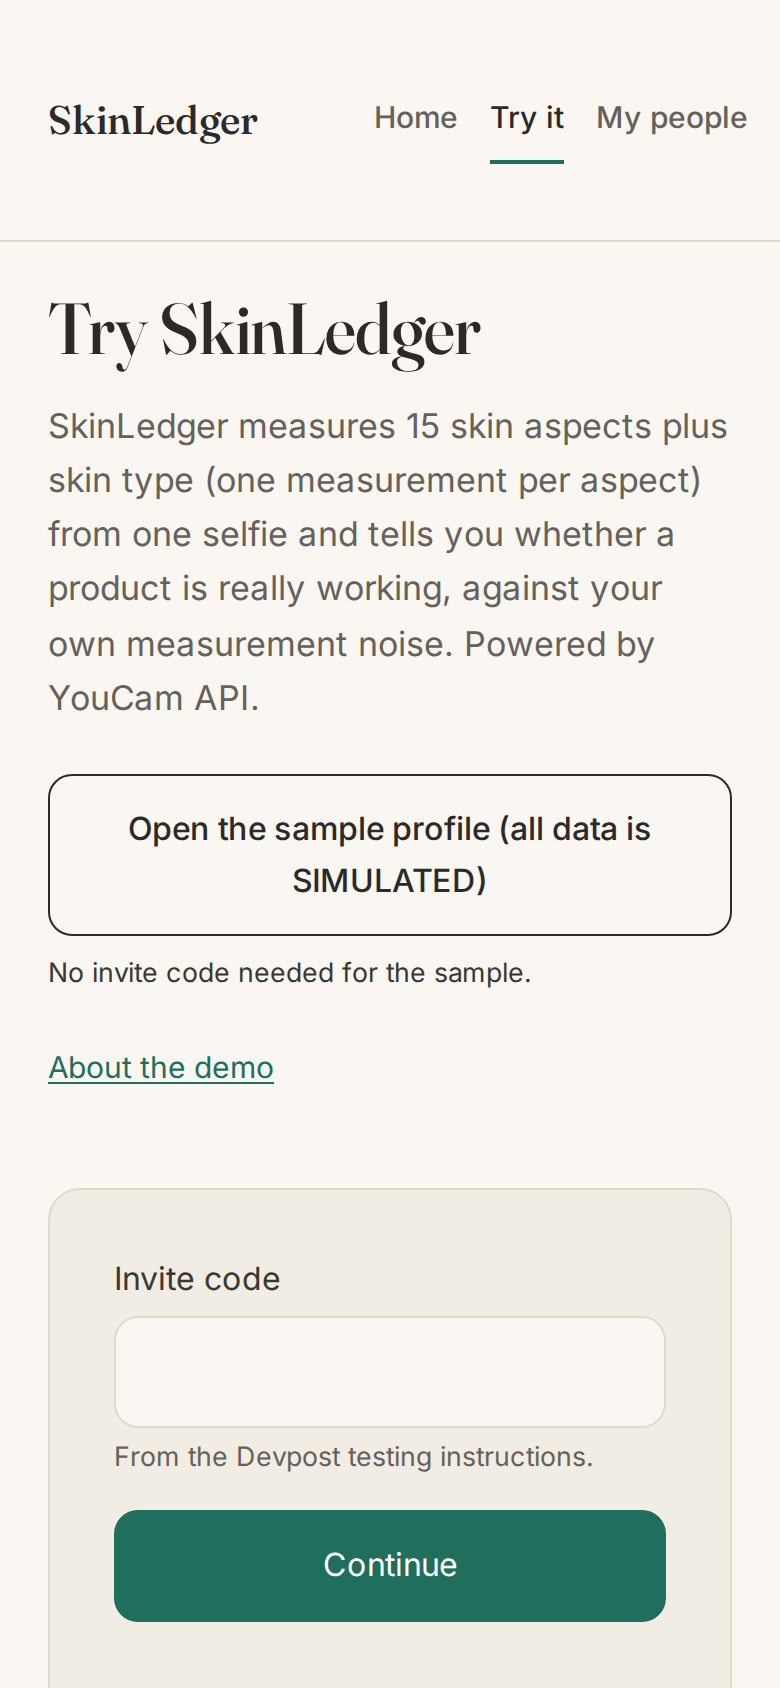
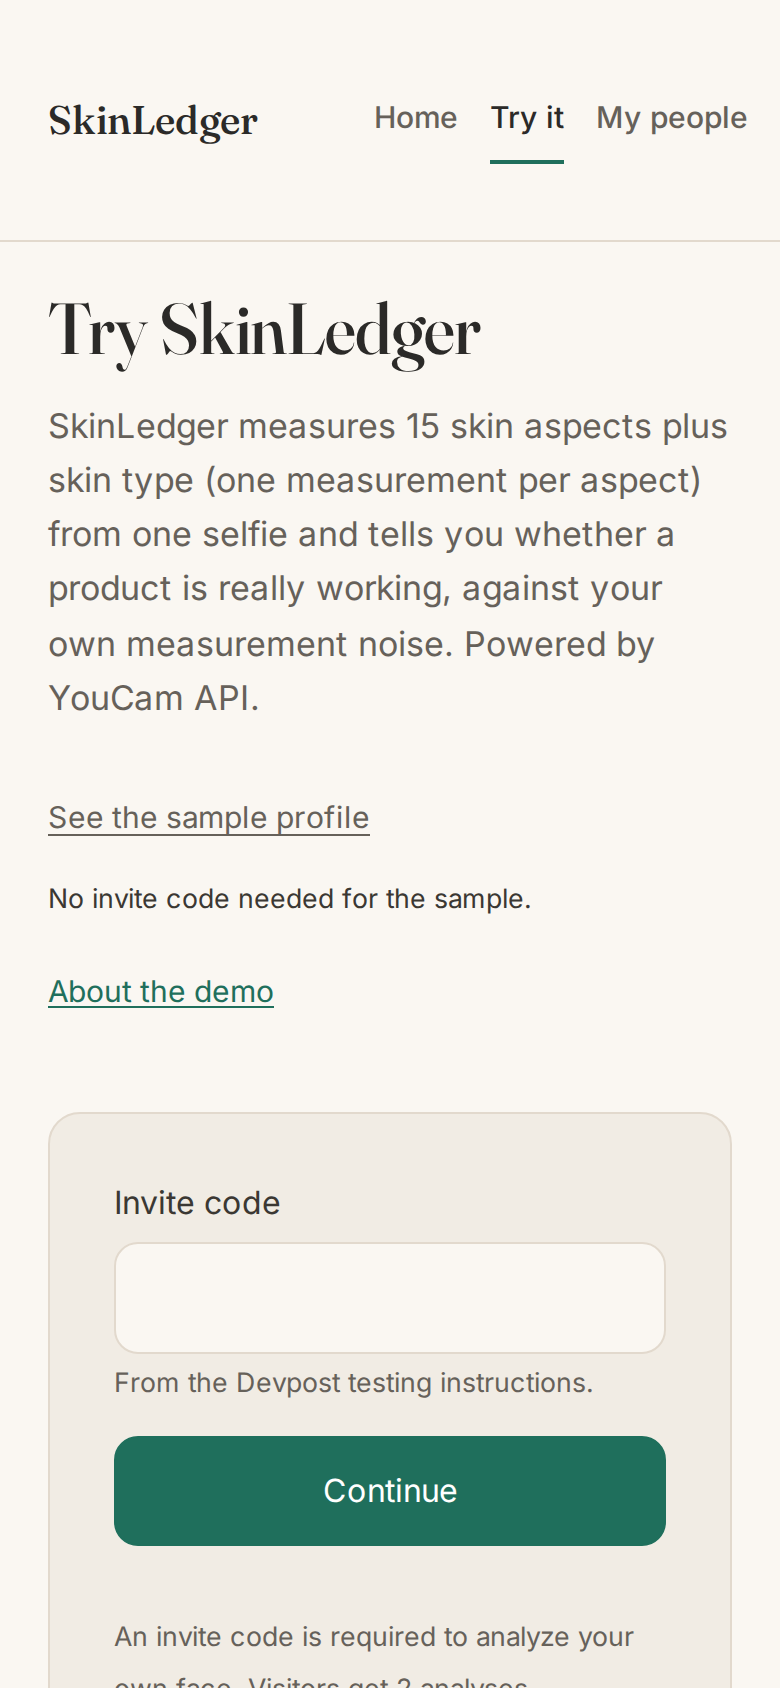
P16c-4: quiet sample CTA, disabled states, fold fixes, light band

diff --git a/src/skinledger/web/static/app.css b/src/skinledger/web/static/app.css
@@ -78,8 +78,9 @@
   --sl-focus: #1f6f5c;
 
   --sl-chart-grid: #e2d9cd;
-  --sl-chart-band: rgba(216, 198, 166, 0.45);
-  --sl-chart-band-unstable: rgba(102, 97, 90, 0.14);
+  --sl-chart-band: #f4ede1;
+  --sl-chart-band-unstable: #efeae1;
+  --sl-chart-band-edge: #d8c6a6;
   --sl-chart-product: #66615a;
   --sl-chart-real: #1f6f5c;
   --sl-chart-simulated: #1f6f5c;
@@ -179,8 +180,9 @@
     --sl-focus: #8fc7b4;
 
     --sl-chart-grid: #3a352f;
-    --sl-chart-band: rgba(216, 198, 166, 0.22);
-    --sl-chart-band-unstable: rgba(179, 170, 158, 0.16);
+    --sl-chart-band: rgba(244, 237, 225, 0.08);
+    --sl-chart-band-unstable: rgba(207, 199, 187, 0.08);
+    --sl-chart-band-edge: rgba(216, 198, 166, 0.35);
     --sl-chart-product: #b3aa9e;
     --sl-chart-real: #8fc7b4;
     --sl-chart-simulated: #8fc7b4;
@@ -2279,4 +2281,123 @@ input[type="radio"] {
 
 label.capture-attestation {
   width: 100%;
+}
+
+/* -- P16c-4: final P1 pass -------------------------------------------------- */
+
+.sample-link {
+  display: inline-flex;
+  align-items: center;
+  min-height: 44px;
+  color: var(--sl-muted);
+  font-size: 0.9375rem;
+  text-decoration: underline;
+  text-underline-offset: 3px;
+}
+
+.sample-link:hover {
+  color: var(--sl-ink);
+}
+
+button:disabled,
+button[disabled] {
+  background: var(--sl-stone);
+  border-color: var(--sl-rule);
+  color: var(--sl-muted);
+  opacity: 1;
+}
+
+button:disabled:hover {
+  background: var(--sl-stone);
+}
+
+.capture-attestation {
+  padding: 10px 14px;
+  min-height: 52px;
+}
+
+#attestation-hint {
+  margin: 2px 0 8px;
+}
+
+.capture-privacy {
+  margin-block: 8px;
+  padding: 8px 12px;
+}
+
+.capture-privacy p {
+  font-size: 0.9rem;
+}
+
+.capture-tabs {
+  margin-block: 10px 4px;
+}
+
+.capture-tab-note {
+  margin: 2px 0 6px;
+}
+
+.chips {
+  margin-bottom: 6px;
+}
+
+#timeline-page h1 {
+  margin-bottom: var(--sl-space-xs);
+}
+
+.timeline-person {
+  margin-bottom: var(--sl-space-sm);
+}
+
+#timeline-page .demo-banner {
+  margin-bottom: var(--sl-space-md);
+}
+
+.timeline-intro {
+  gap: var(--sl-space-sm);
+  margin-bottom: var(--sl-space-lg);
+}
+
+@media (min-width: 768px) {
+  .timeline-intro {
+    gap: var(--sl-space-lg);
+    margin-bottom: var(--sl-space-xl);
+  }
+}
+
+.timeline-summary {
+  gap: 4px var(--sl-space-md);
+  margin-bottom: var(--sl-space-xs);
+  padding: 8px 12px;
+  font-size: 0.875rem;
+}
+
+.timeline-legend {
+  margin: 0;
+  font-size: 0.875rem;
+}
+
+.timeline-product-key {
+  padding: 0 16px;
+}
+
+.timeline-product-key summary {
+  display: flex;
+  align-items: center;
+  min-height: 48px;
+  cursor: pointer;
+  font-family: var(--sl-font-sans);
+  font-size: 0.75rem;
+  font-weight: 600;
+  letter-spacing: 0.08em;
+  text-transform: uppercase;
+  color: var(--sl-muted);
+}
+
+.timeline-product-key ul {
+  margin: 0 0 var(--sl-space-md);
+}
+
+.timeline-first-note {
+  margin: 0 0 var(--sl-space-xs);
 }

diff --git a/src/skinledger/web/static/charts.js b/src/skinledger/web/static/charts.js
@@ -30,7 +30,8 @@
     simulated: cssVar("--sl-chart-simulated", "#8a6d3b"),
     sample: cssVar("--sl-chart-sample", "#6b5b95"),
     band: cssVar("--sl-chart-band", "rgba(31, 111, 92, 0.16)"),
-    bandUnstable: cssVar("--sl-chart-band-unstable", "rgba(120, 126, 132, 0.22)"),
+    bandUnstable: cssVar("--sl-chart-band-unstable", "#efeae1"),
+    bandEdge: cssVar("--sl-chart-band-edge", "#d8c6a6"),
     product: cssVar("--sl-chart-product", "#646b79"),
     hollow: cssVar("--sl-chart-hollow", "#ffffff")
   };
@@ -148,6 +149,9 @@
         borderWidth: 0,
         pointRadius: 0,
         backgroundColor: bandColor,
+        borderColor: COLORS.bandEdge,
+        borderWidth: 1,
+        order: 2,
         fill: false,
         tension: 0,
         slKind: "band"
@@ -158,6 +162,9 @@
         borderWidth: 0,
         pointRadius: 0,
         backgroundColor: bandColor,
+        borderColor: COLORS.bandEdge,
+        borderWidth: 1,
+        order: 2,
         fill: "-1",
         tension: 0,
         slKind: "band"
@@ -184,6 +191,7 @@
         pointRadius: 4,
         pointHoverRadius: 5,
         borderWidth: 2,
+        order: 1,
         borderDash: style.dash,
         tension: 0,
         spanGaps: false,
@@ -278,6 +286,21 @@
       buildChart(aspect, latestSeries.products || []);
       built[aspect.aspect] = true;
     });
+  }
+
+  // The product key is a disclosure on phones and open on tablet/laptop.
+  var productKey = document.getElementById("timeline-product-key");
+  if (productKey && window.matchMedia) {
+    var keyMedia = window.matchMedia("(min-width: 768px)");
+    var syncKey = function () {
+      if (keyMedia.matches) {
+        productKey.setAttribute("open", "");
+      } else {
+        productKey.removeAttribute("open");
+      }
+    };
+    syncKey();
+    keyMedia.addEventListener("change", syncKey);
   }
 
   if (extraCards.length && grid && controls && toggle) {

diff --git a/src/skinledger/web/templates/timeline.html b/src/skinledger/web/templates/timeline.html
@@ -26,8 +26,6 @@
         <span>{{ timeline_summary_latest }} <strong class="num">{{ summary_latest|short_date }}</strong></span>
         {% endif %}
       </p>
-      <p class="score-note">{{ score_direction_note }}</p>
-
       {% if has_band %}
       <p class="timeline-legend">{{ band_legend }}</p>
       {% else %}
@@ -39,8 +37,8 @@
 
     {% if products %}
     {% set product_dashes = ["", "5 4", "1 3", "8 3"] %}
-    <div class="timeline-product-key">
-      <p class="timeline-product-key-title">{{ timeline_product_key }}</p>
+    <details class="timeline-product-key" id="timeline-product-key">
+      <summary>{{ timeline_product_key }}</summary>
       <ul>
         {% for product in products %}
         {% set dash = product_dashes[loop.index0 % product_dashes|length] %}
@@ -58,7 +56,7 @@
         </li>
         {% endfor %}
       </ul>
-    </div>
+    </details>
     {% endif %}
   </div>
 

diff --git a/src/skinledger/web/templates/index.html b/src/skinledger/web/templates/index.html
@@ -10,6 +10,13 @@
     <p class="home-hero-sub">{{ home_sub }}</p>
   </div>
 
+  <div class="home-hero-actions">
+    <a href="/try" role="button">Try it</a>
+    {% if demo_person_id %}
+    <a href="/people/{{ demo_person_id }}/timeline" class="sample-link">{{ home_sample_link }}</a>
+    {% endif %}
+  </div>
+
   <figure class="home-band">
     <svg viewBox="0 0 360 160" role="img"
          aria-label="Sample noise band: points inside the band, then two points above it after the product start">
@@ -36,14 +43,6 @@
       {{ home_band_caption }}
     </figcaption>
   </figure>
-
-  <div class="home-hero-actions">
-    <a href="/try" role="button">Try it</a>
-    {% if demo_person_id %}
-    <a href="/people/{{ demo_person_id }}/timeline" role="button"
-       class="secondary outline">{{ home_sample_link }}</a>
-    {% endif %}
-  </div>
 </section>
 
 {% if show_home_products %}

diff --git a/src/skinledger/web/templates/try.html b/src/skinledger/web/templates/try.html
@@ -13,13 +13,12 @@
     </p>
     {% if demo_person_id %}
     <p class="try-sample">
-      <a href="/people/{{ demo_person_id }}/timeline" role="button"
-         class="secondary outline">{{ try_sample_link }}</a>
+      <a href="/people/{{ demo_person_id }}/timeline" class="sample-link">{{ try_sample_link }}</a>
       <small>No invite code needed for the sample.</small>
     </p>
     {% else %}
     <p class="try-sample">
-      <a href="/people" role="button" class="secondary outline">Browse the sample profile</a>
+      <a href="/people" class="sample-link">See the sample profile</a>
     </p>
     {% endif %}
     <p class="try-demo-link"><a href="/demo">{{ try_demo_link }}</a></p>

diff --git a/src/skinledger/copy.py b/src/skinledger/copy.py
@@ -140,8 +140,7 @@ TIMELINE_NOSCRIPT = "Charts need JavaScript. Open Numbers in each card for the v
 TIMELINE_NO_POINTS = "No captures yet."
 
 TIMELINE_BAND_LEGEND = (
-    "Each card is one aspect (a skin measurement). Shaded band = your day-1 noise. "
-    "Only changes outside it count."
+    "Each card is one aspect. Higher score is better; the shaded band is your day-1 noise."
 )
 
 TIMELINE_UNSTABLE_CHIP = "Unstable for your setup"
@@ -272,12 +271,12 @@ VERDICT_SAMPLE_BANNER = "Sample data for testing, not a real result."
 
 SAMPLE_PROFILE_BANNER = "Sample profile: all data is SIMULATED."
 
-TRY_SAMPLE_LINK = "Open the sample profile (all data is SIMULATED)"
+TRY_SAMPLE_LINK = "See the sample profile"
 TRY_INVITE_HINT = "From the Devpost testing instructions."
 
 TRY_DEMO_LINK = "About the demo"
 
-HOME_SAMPLE_LINK = "Open the sample profile (SIMULATED)"
+HOME_SAMPLE_LINK = "See the sample profile"
 HOME_SAMPLE_TITLE = "Sample profile products"
 HOME_EYEBROW = "Your own baseline"
 HOME_SUB = (

diff --git a/tests/test_verdict_screen.py b/tests/test_verdict_screen.py
@@ -239,7 +239,7 @@ def test_score_direction_label_is_on_verdict_and_timeline(env, web):
     timeline = web.get(f"/people/{person_id}/timeline")
 
     assert copy.SCORE_DIRECTION_NOTE in verdict.text
-    assert copy.SCORE_DIRECTION_NOTE in timeline.text
+    assert copy.TIMELINE_BAND_LEGEND in timeline.text
 
 
 def test_another_browser_gets_404(env, web):
